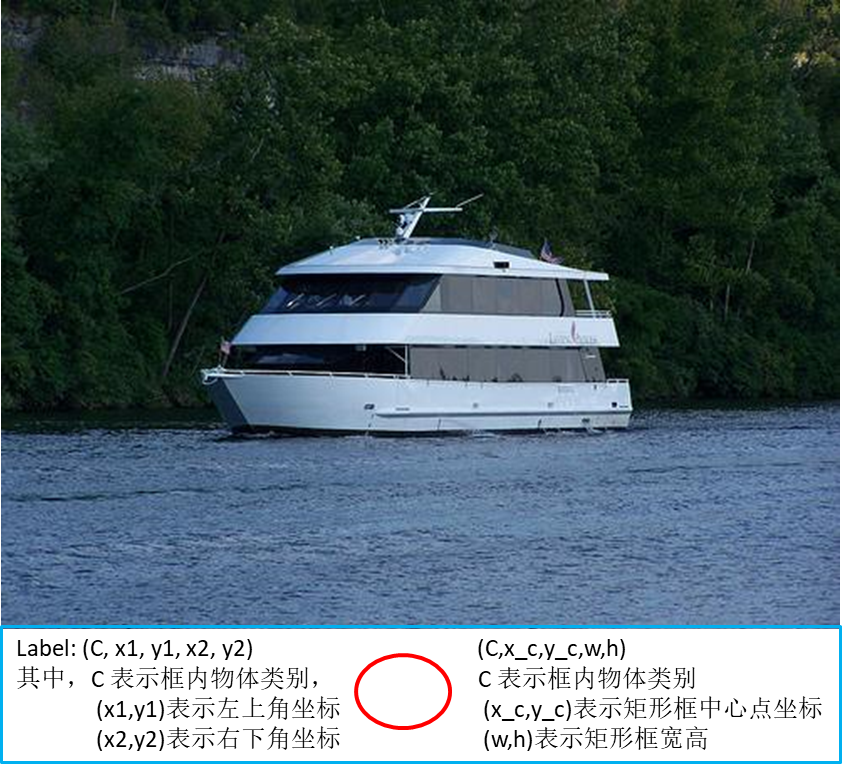
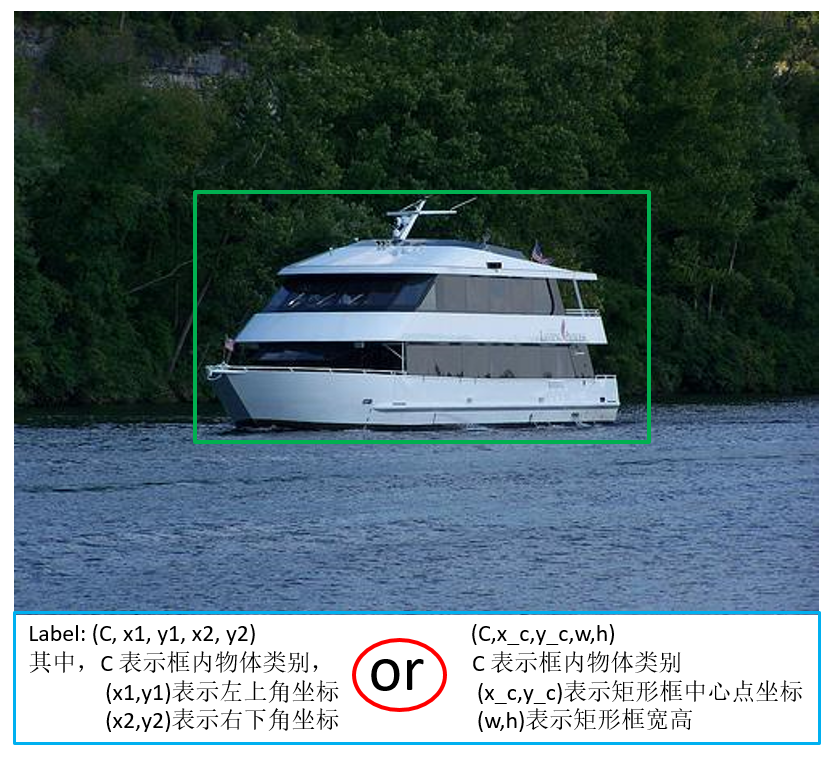
:book: 修复了3.1节一个图片的小问题

Changed region(s): [[0.0, 0.0, 1.0, 0.9987], [0.5281, 0.6355, 0.5591, 0.6658], [0.1553, 0.2421, 0.1864, 0.2724]]

diff --git a/docs/chapter03_object_detection_introduction/3_1.md b/docs/chapter03_object_detection_introduction/3_1.md
@@ -45,7 +45,7 @@
 
 图像分类中，标签信息是类别。目标检测的标签信息除了类别label以外，需要同时包含目标的位置信息，也就是目标的外接矩形框bounding box。
 
-表达bbox的格式通常有两种，(x1, y1, x2, y2) 和 (c_x, c_y, w, h) 两种，如图3-3所示：
+用来表达bbox的格式通常有两种，(x1, y1, x2, y2) 和 (c_x, c_y, w, h) ，如图3-3所示：
 
 <div align=center>
 <img src="https://raw.githubusercontent.com/datawhalechina/dive-into-cv-pytorch/master/markdown_imgs/chapter03/3-3.png" alt="1604134486(1)" style="zoom:75%;" />
